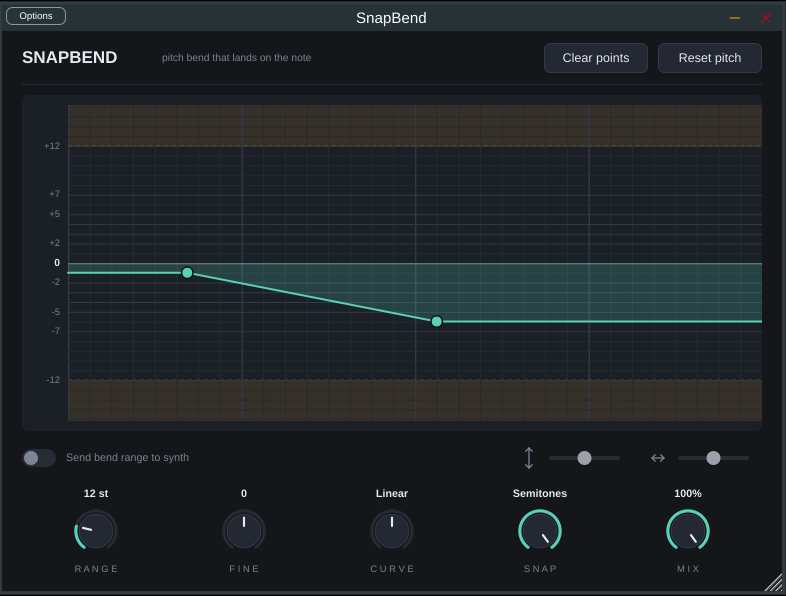
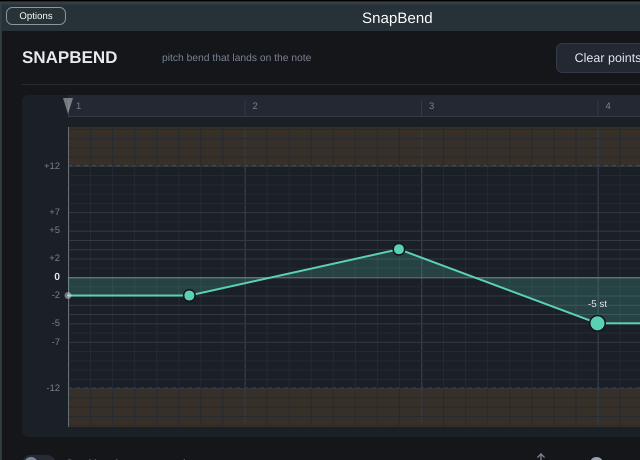
Add a bar ruler and always-visible playhead, and stop the idle repainting
Ruler
  A numbered bar ruler along the top of the lane, as in Logic's own
  editors, with the playhead marker sitting in it. Bar numbers count from
  1 and follow the host's time signature rather than assuming 4/4, so a
  bar of 6/8 is three quarter notes wide and numbered correctly. Numbering
  thins out as you zoom out instead of colliding.

  The ruler is read-only — clicking it previously dropped a point at the
  very top of the bend range.

Playhead
  Drawn whether or not the transport is running. Stopped, it marks where
  playback will begin, which is the only way to line a bend up against a
  note before pressing play; it was previously invisible until playback
  started. Dimmed when stopped, full strength when playing.

Smoothness
  The lane repainted on every timer tick — the whole grid, curve, and
  every label, thirty times a second, whether or not anything had moved.
  It now repaints only when the playhead actually moves or the transport
  state changes, which is what was making dragging feel sticky.

  The range-warning check also copied the curve under a lock on every
  tick; it now recomputes only when the curve or the range changes.

  Points can no longer be dragged to negative beats, where they used to
  disappear off the left edge with no way to get them back.

  Guarded the ruler's label-thinning loop, which would not have
  terminated if the window were resized to zero width.

51 core tests pass. Verified on a virtual display at full size and at the
[…]

diff --git a/snapbend/plugin/ui/BendLaneComponent.cpp b/snapbend/plugin/ui/BendLaneComponent.cpp
@@ -9,6 +9,9 @@ namespace
     constexpr float labelGutter = 46.0f;
     constexpr float lanePadding = 10.0f;
 
+    /** Bar-number strip along the top, matching the proportions Logic uses. */
+    constexpr float rulerHeight = 22.0f;
+
     /** Semitones that get a brighter line, because they are the ones people
         actually bend to: octave, fifth, fourth, minor/major third, tone. */
     bool isLandmarkInterval (int semitone)
@@ -73,6 +76,16 @@ void BendLaneComponent::setShapeBias (double bias)
 
 void BendLaneComponent::setPlayheadPosition (double beat, bool isPlaying)
 {
+    // This arrives on a timer, so it fires whether or not anything moved.
+    // Repainting regardless meant the whole lane — grid, curve, every label —
+    // was redrawn thirty times a second while sitting completely still, which
+    // is what made dragging feel sticky.
+    const bool positionMoved = std::abs (beat - playheadBeat) > 1.0e-9;
+    const bool stateChanged  = isPlaying != transportRunning;
+
+    if (! positionMoved && ! stateChanged)
+        return;
+
     playheadBeat     = beat;
     transportRunning = isPlaying;
 
@@ -135,7 +148,37 @@ juce::Rectangle<float> BendLaneComponent::getLaneBounds() const
 {
     return getLocalBounds().toFloat()
              .withTrimmedLeft (labelGutter)
+             .withTrimmedTop (rulerHeight)
              .reduced (0.0f, lanePadding);
+}
+
+juce::Rectangle<float> BendLaneComponent::getRulerBounds() const
+{
+    return getLocalBounds().toFloat()
+             .withTrimmedLeft (labelGutter)
+             .withHeight (rulerHeight);
+}
+
+int BendLaneComponent::getBarNumber (double beat) const
+{
+    // Logic counts bars from 1, and a project starts at bar 1 rather than 0.
+    return static_cast<int> (std::floor (beat / quartersPerBar)) + 1;
+}
+
+void BendLaneComponent::setTimeSignature (int numerator, int denominator)
+{
+    if (numerator <= 0 || denominator <= 0)
+        return;
+
+    // A bar of 6/8 is three quarter notes, not six — the playhead is reported
+    // in quarter notes regardless of what the bar is made of.
+    const double newQuartersPerBar = numerator * 4.0 / denominator;
+
+    if (std::abs (newQuartersPerBar - quartersPerBar) > 1.0e-9)
+    {
+        quartersPerBar = newQuartersPerBar;
+        repaint();
+    }
 }
 
 double BendLaneComponent::getDisplayRange() const
@@ -264,6 +307,11 @@ void BendLaneComponent::mouseDown (const juce::MouseEvent& event)
 {
     const auto position = event.position;
 
+    // The ruler is for reading, not editing. Clicking it used to drop a point
+    // at the very top of the range.
+    if (getRulerBounds().contains (position))
+        return;
+
     // Holding alt escapes the grid entirely, for bends that deliberately sit
     // just under the note.
     const bool snapDisabled = event.mods.isAltDown();
@@ -310,7 +358,9 @@ void BendLaneComponent::mouseDown (const juce::MouseEvent& event)
     }
 
     // Empty space: drop a new point here and start dragging it immediately.
-    const double beat      = applySnapToBeat (xToBeat (position.x), snapDisabled);
+    // Beats are clamped at zero — there is no music before the start of the
+    // project, and a point dragged off the left edge used to vanish there.
+    const double beat      = juce::jmax (0.0, applySnapToBeat (xToBeat (position.x), snapDisabled));
     const double semitones = applySnapToSemitone (yToSemitone (position.y), snapDisabled);
 
     dragIndex = static_cast<int> (curve.addNode ({ beat, semitones, 0.0 }));
@@ -329,7 +379,8 @@ void BendLaneComponent::mouseDrag (const juce::MouseEvent& event)
 
     if (dragMode == DragMode::node)
     {
-        const double beat      = applySnapToBeat (xToBeat (event.position.x), snapDisabled);
+        const double beat      = juce::jmax (0.0, applySnapToBeat (xToBeat (event.position.x),
+                                                                   snapDisabled));
         const double semitones = juce::jlimit (-getDisplayRange(), getDisplayRange(),
                                                applySnapToSemitone (yToSemitone (event.position.y),
                                                                     snapDisabled));
@@ -458,6 +509,7 @@ void BendLaneComponent::paint (juce::Graphics& g)
 
     drawNodes (g);
     drawPlayhead (g, lane);
+    drawRuler (g, getRulerBounds());
 }
 
 void BendLaneComponent::drawOutOfRangeZones (juce::Graphics& g, juce::Rectangle<float> lane) const
@@ -559,7 +611,7 @@ void BendLaneComponent::drawBeatGrid (juce::Graphics& g, juce::Rectangle<float> 
         if (x < lane.getX() - 1.0f || x > lane.getRight() + 1.0f)
             continue;
 
-        const bool barLine = std::fmod (std::abs (beat), static_cast<double> (beatsPerBar)) < 1.0e-6;
+        const bool barLine = std::fmod (std::abs (beat), quartersPerBar) < 1.0e-6;
 
         g.setColour (barLine ? colours::gridLineBold : colours::gridLine);
         g.fillRect (x, lane.getY(), barLine ? 1.4f : 1.0f, lane.getHeight());
@@ -648,15 +700,15 @@ void BendLaneComponent::drawNodes (juce::Graphics& g) const
 
 void BendLaneComponent::drawPlayhead (juce::Graphics& g, juce::Rectangle<float> lane) const
 {
-    if (! transportRunning)
-        return;
-
     const float x = beatToX (playheadBeat);
 
     if (x < lane.getX() || x > lane.getRight())
         return;
 
-    g.setColour (colours::playhead.withAlpha (0.55f));
+    // Visible whether or not the transport is running — when stopped it marks
+    // where playback will start from, which is how Logic behaves and is the
+    // only way to line a bend up with a note before pressing play.
+    g.setColour (colours::playhead.withAlpha (transportRunning ? 0.65f : 0.3f));
     g.fillRect (x, lane.getY(), 1.0f, lane.getHeight());
 
     // A dot riding the curve, so you can see the bend happening.
@@ -664,8 +716,69 @@ void BendLaneComponent::drawPlayhead (juce::Graphics& g, juce::Rectangle<float> 
     {
         const float y = semitoneToY (curve.valueAtBeat (playheadBeat, shapeBias));
 
-        g.setColour (colours::playhead);
+        g.setColour (colours::playhead.withAlpha (transportRunning ? 1.0f : 0.45f));
         g.fillEllipse (juce::Rectangle<float> (7.0f, 7.0f).withCentre ({ x, y }));
+    }
+}
+
+void BendLaneComponent::drawRuler (juce::Graphics& g, juce::Rectangle<float> ruler) const
+{
+    g.setColour (colours::panelRaised);
+    g.fillRect (ruler);
+
+    g.setColour (colours::gridLineBold);
+    g.fillRect (ruler.getX(), ruler.getBottom() - 1.0f, ruler.getWidth(), 1.0f);
+
+    const double firstBar = std::floor (viewStartBeat / quartersPerBar);
+    const double lastBeat = viewStartBeat + getVisibleBeats();
+
+    // Thin the numbering out rather than letting bar labels collide.
+    const double pixelsPerBar = ruler.getWidth() / (getVisibleBeats() / quartersPerBar);
+
+    // Squeezed to nothing by a resize, there is nothing worth drawing — and
+    // without this guard the loop below would never terminate.
+    if (pixelsPerBar <= 0.0)
+        return;
+
+    int barStep = 1;
+    while (pixelsPerBar * barStep < 46.0 && barStep < 1024)
+        barStep *= 2;
+
+    for (double bar = firstBar; bar * quartersPerBar <= lastBeat; bar += 1.0)
+    {
+        const double beat = bar * quartersPerBar;
+        const float  x    = beatToX (beat);
+
+        if (x < ruler.getX() - 1.0f || x > ruler.getRight() + 1.0f)
+            continue;
+
+        const int barNumber = getBarNumber (beat + 1.0e-9);
+
+        if ((barNumber - 1) % barStep != 0)
+            continue;
+
+        g.setColour (colours::gridLineBold);
+        g.fillRect (x, ruler.getY() + 6.0f, 1.0f, ruler.getHeight() - 7.0f);
+
+        g.setColour (colours::textDim);
+        g.setFont (juce::Font (juce::FontOptions (10.5f)));
+        g.drawText (juce::String (barNumber),
+                    juce::Rectangle<float> (x + 8.0f, ruler.getY(), 40.0f, ruler.getHeight()),
+                    juce::Justification::centredLeft, false);
+    }
+
+    // The playhead's head, sitting in the ruler exactly as it does in Logic.
+    const float playheadX = beatToX (playheadBeat);
+
+    if (playheadX >= ruler.getX() && playheadX <= ruler.getRight())
+    {
+        juce::Path head;
+        head.addTriangle (playheadX - 5.0f, ruler.getY() + 3.0f,
+                          playheadX + 5.0f, ruler.getY() + 3.0f,
+                          playheadX,        ruler.getBottom() - 3.0f);
+
+        g.setColour (colours::playhead.withAlpha (transportRunning ? 0.95f : 0.45f));
+        g.fillPath (head);
     }
 }
 

diff --git a/snapbend/plugin/ui/BendLaneComponent.h b/snapbend/plugin/ui/BendLaneComponent.h
@@ -32,6 +32,10 @@ public:
 
     void setPlayheadPosition (double beat, bool isPlaying);
 
+    /** The host's time signature, so the bar ruler counts bars the way Logic
+        does rather than assuming 4/4. */
+    void setTimeSignature (int numerator, int denominator);
+
     /** Zoom, 0 = fully out, 1 = fully in, 0.5 = the default view.
         Horizontal sets how much of the timeline is on screen, vertical how
         many semitones. */
@@ -59,6 +63,9 @@ private:
 
     juce::Rectangle<float> getLaneBounds() const;
 
+    /** The bar-number strip along the top, as in Logic's own editors. */
+    juce::Rectangle<float> getRulerBounds() const;
+
     float  beatToX (double beat) const;
     double xToBeat (float x) const;
     float  semitoneToY (double semitones) const;
@@ -82,7 +89,11 @@ private:
     void drawCurve (juce::Graphics&, juce::Rectangle<float> lane) const;
     void drawNodes (juce::Graphics&) const;
     void drawPlayhead (juce::Graphics&, juce::Rectangle<float> lane) const;
+    void drawRuler (juce::Graphics&, juce::Rectangle<float> ruler) const;
     void drawEmptyHint (juce::Graphics&, juce::Rectangle<float> lane) const;
+
+    /** Bar number at a musical position, counting from 1 as Logic does. */
+    int getBarNumber (double beat) const;
 
     double applySnapToSemitone (double raw, bool snapDisabled) const;
     double applySnapToBeat (double raw, bool snapDisabled) const;
@@ -101,7 +112,10 @@ private:
 
     double viewStartBeat = 0.0;
     double beatGrid      = 0.25;   ///< sixteenth notes
-    int    beatsPerBar   = 4;
+
+    /** Quarter notes per bar. 4 in 4/4, 3 in 6/8, and so on — the host tells
+        us, we do not assume. */
+    double quartersPerBar = 4.0;
 
     /** Zoom, 0..1. Both default to the middle, which gives four bars across
         and a little past the bend range vertically. */

diff --git a/snapbend/plugin/PluginEditor.cpp b/snapbend/plugin/PluginEditor.cpp
@@ -92,6 +92,7 @@ SnapBendEditor::SnapBendEditor (SnapBendProcessor& p)
     bendLane.onCurveChanged = [this] (const snapbend::BendCurve& newCurve)
     {
         processor.setCurve (newCurve);
+        curveDirty = true;
         refreshRangeWarning();
     };
 
@@ -172,6 +173,8 @@ SnapBendEditor::~SnapBendEditor()
 void SnapBendEditor::timerCallback()
 {
     bendLane.setPlayheadPosition (processor.getCurrentBeat(), processor.isPlaying());
+    bendLane.setTimeSignature (processor.getTimeSignatureNumerator(),
+                               processor.getTimeSignatureDenominator());
 
     const double range = processor.apvts.getRawParameterValue ("range")->load();
     const double snap  = processor.apvts.getRawParameterValue ("snap")->load();
@@ -193,7 +196,15 @@ void SnapBendEditor::timerCallback()
 void SnapBendEditor::refreshRangeWarning()
 {
     const double range = processor.apvts.getRawParameterValue ("range")->load();
-    const auto requirement = processor.getCurve().getRangeRequirement (range);
+
+    if (curveDirty || std::abs (range - lastCheckedRange) > 1.0e-9)
+    {
+        cachedRequirement = processor.getCurve().getRangeRequirement (range);
+        lastCheckedRange  = range;
+        curveDirty        = false;
+    }
+
+    const auto& requirement = cachedRequirement;
 
     if (! requirement.exceedsRange)
     {

diff --git a/snapbend/plugin/PluginProcessor.h b/snapbend/plugin/PluginProcessor.h
@@ -63,6 +63,10 @@ public:
     double getCurrentBeat() const noexcept { return currentBeat.load(); }
     bool   isPlaying()      const noexcept { return transportRunning.load(); }
 
+    /** The host's time signature, for the bar ruler. */
+    int getTimeSignatureNumerator()   const noexcept { return timeSigNumerator.load(); }
+    int getTimeSignatureDenominator() const noexcept { return timeSigDenominator.load(); }
+
     /** Sends a centred bend on the next block. Used by the panic button, and
         whenever the plugin is bypassed, so nothing is left detuned. */
     void requestSafetyReset() noexcept { safetyResetPending.store (true); }
@@ -79,6 +83,9 @@ private:
 
     std::atomic<double> horizontalZoom     { 0.5 };
     std::atomic<double> verticalZoom       { 0.5 };
+
+    std::atomic<int>    timeSigNumerator   { 4 };
+    std::atomic<int>    timeSigDenominator { 4 };
 
     std::atomic<double> currentBeat        { 0.0 };
     std::atomic<bool>   transportRunning   { false };

diff --git a/snapbend/plugin/PluginEditor.h b/snapbend/plugin/PluginEditor.h
@@ -104,5 +104,12 @@ private:
     double lastWarnedRequirement = -1.0;
     double lastWarnedRange       = -1.0;
 
+    /** Working out whether a warning is needed means copying the curve under a
+        lock. That is cheap, but not thirty times a second for no reason — so
+        it only happens when the curve or the range has actually moved. */
+    bool   curveDirty       = true;
+    double lastCheckedRange = -1.0;
+    snapbend::RangeRequirement cachedRequirement;
+
     JUCE_DECLARE_NON_COPYABLE_WITH_LEAK_DETECTOR (SnapBendEditor)
 };

diff --git a/snapbend/plugin/PluginProcessor.cpp b/snapbend/plugin/PluginProcessor.cpp
@@ -114,6 +114,12 @@ void SnapBendProcessor::processBlock (juce::AudioBuffer<float>& buffer,
 
             if (const auto bpm = position->getBpm())
                 transport.bpm = *bpm;
+
+            if (const auto timeSig = position->getTimeSignature())
+            {
+                timeSigNumerator.store (timeSig->numerator);
+                timeSigDenominator.store (timeSig->denominator);
+            }
         }
     }
 

diff --git a/snapbend/README.md b/snapbend/README.md
@@ -99,6 +99,19 @@ hanging.
 - **Right-click** a point to remove it (double-click works too)
 - **Hold Alt** while dragging to ignore the grid entirely
 
+### The ruler and playhead
+
+A bar ruler runs along the top, numbered from bar 1 like Logic's own editors,
+and following the host's time signature rather than assuming 4/4.
+
+The playhead is drawn as a marker in the ruler and a line down the lane. It is
+visible **whether or not the transport is running** — when stopped it shows
+where playback will start from, which is how you line a bend up against a note
+before pressing play. While playing, a dot rides the curve so you can watch the
+bend happen.
+
+The ruler is read-only; clicking it does not add points.
+
 ### Zoom
 
 The two sliders at the bottom right work like the zoom controls in Logic's own
